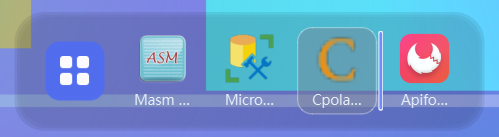
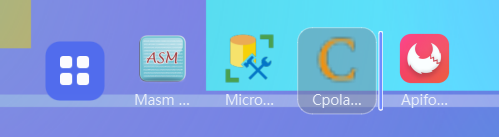
fix(dock): 菜单栏回到纯透明，去掉 paintEvent 画的影子
浅色壁纸上那层淡影子看起来就是一块半透明板子，等于把底板加回来了。
整段删除（含 DOCK_SHADOW_* 常量），DockBar 不再覆盖 paintEvent。

其余一律不动：间距 6 / Hover·Active / Toast / 拖入添加 / 排序算法。

自检 test_dock_ux 第 6 节改反向断言：没有 paintEvent 覆盖，
抓图取「图标上方」与「图标之间的缝」两个点断言 alpha == 0。全量 1127 项通过。

diff --git a/dock.py b/dock.py
@@ -72,16 +72,10 @@ MIN_MARGIN = 8
 #: 换行之后行内间距和行间间距不一样的话，第二行会看着比第一行挤。
 DOCK_GAP = 6
 
-# --------------------------------------------------------------------------
-# 菜单栏底下那层"影子"（画在 paintEvent 里，不是 QSS 也不是 QGraphicsEffect）
-# --------------------------------------------------------------------------
-#: 影子由几层同心圆角矩形叠出来，最外一层 alpha 最低。
-#: 为什么不用 `QGraphicsDropShadowEffect`：它每帧都要把整个菜单栏离屏渲染
-#: 再模糊一遍，而拖拽排序是 60fps 逐帧移动控件的 —— 那就是每帧一次全条模糊。
-#: 这里只是几个圆角矩形填充，代价可以忽略，观感够用（要的是"浮着"，不是"投影"）。
-DOCK_SHADOW_LAYERS = 3
-DOCK_SHADOW_ALPHA = 24         # 最内一层的 alpha（/255），很淡，浅壁纸上也压不脏
-DOCK_SHADOW_SPREAD = 2         # 每往外一层多扩几像素（别超过窗口留白，否则被裁）
+#: 菜单栏**不画底板、不画阴影**：底板纯透明，图标直接浮在桌面上。
+#: （Phase 4 试过在 `paintEvent` 里垫一层很淡的同心圆角矩形当"影子"，
+#:  但浅色壁纸上看就是一块半透明板子——用户明确要求回到纯透明的观感，
+#:  所以这里不再有任何绘制。要加回来请先确认壁纸是深色的。）
 
 # --------------------------------------------------------------------------
 # 排序让位的弹簧手感（积分器在 springs.py）
@@ -623,42 +617,14 @@ class DockBar(QWidget):
         self._control_buttons: "list[QWidget]" = []
 
     # ------------------------------------------------------------------
-    # 阴影（见 DOCK_SHADOW_* 的说明）
+    # 底板：纯透明，**什么都不画**
     # ------------------------------------------------------------------
-    def paintEvent(self, event) -> None:  # noqa: N802
-        """在菜单栏底下垫一层**很淡的影子**。
-
-        菜单栏是纯透明的（`#DockSurface` 必须保持 `background: transparent`，
-        见 theme 第 15 节），图标直接浮在壁纸上。浅色壁纸上浅色图标和浅色名字
-        会糊成一片，所以补一层几乎看不见的暗色晕：中心 alpha 只有 ~24/255，
-        越往外越淡 —— 看上去是"图标投在桌面上的影子"，而不是一条深色底板。
-
-        做法是几层同心圆角矩形，不是 `QGraphicsDropShadowEffect`：
-        后者每帧都要离屏渲染 + 模糊，而拖拽排序是 60fps 逐帧移动控件的。
-        """
-        super().paintEvent(event)
-        area = self.surface.geometry()
-        if area.isEmpty():
-            return
-        painter = QPainter(self)
-        painter.setRenderHint(QPainter.RenderHint.Antialiasing)
-        painter.setPen(Qt.PenStyle.NoPen)
-        # 颜色取自 Design Token（深色主题的 shadow），alpha 由 DOCK_SHADOW_ALPHA 控制
-        shadow = QColor(theme_mod.DARK["shadow"])
-        radius = float(theme_mod.RADIUS["dock"] + DOCK_SHADOW_LAYERS
-                       * DOCK_SHADOW_SPREAD)
-        # 从最外层往里画：外圈 alpha 低，内圈一层层叠上去
-        for index in range(DOCK_SHADOW_LAYERS, 0, -1):
-            spread = index * DOCK_SHADOW_SPREAD
-            alpha = int(DOCK_SHADOW_ALPHA * index / DOCK_SHADOW_LAYERS)
-            shadow.setAlpha(alpha)
-            path = QPainterPath()
-            path.addRoundedRect(
-                area.left() - spread, area.top() - spread,
-                area.width() + spread * 2, area.height() + spread * 2,
-                radius, radius)
-            painter.fillPath(path, shadow)
-        painter.end()
+    # 这里刻意没有 `paintEvent`。菜单栏是一层纯透明浮层（`#DockSurface` 是
+    # `background: transparent`，见 theme 第 15 节），图标和名字直接浮在桌面上。
+    #
+    # Phase 4 曾在这里垫过一层很淡的同心圆角矩形当"影子"，想给浅壁纸兜底；
+    # 实际观感是"图标底下多了一块半透明板子"，反而回到了要删掉的那种底板。
+    # 现在一律不画：要浮着的感觉，靠图标本身和间距就够了。
 
     def _set_drop_active(self, active: bool) -> None:
         """拖拽悬停时给菜单栏描一圈虚线（动态属性 + 重新 polish，见 theme）。"""

diff --git a/dev/test_dock_ux.py b/dev/test_dock_ux.py
@@ -237,7 +237,7 @@ def main() -> int:
     dock.show_bar()
     pump(app, 0.8)
 
-    section("6. Dock：图标间距 / 背景 / 阴影")
+    section("6. Dock：图标间距 / 背景（纯透明）")
     check("应用区图标间距放宽到 6（原来是 3）",
           dock.apps_flow._spacing == dock_mod.DOCK_GAP == 6,       # noqa: SLF001
           str(dock.apps_flow._spacing))                            # noqa: SLF001
@@ -245,22 +245,30 @@ def main() -> int:
           dock.main_row.spacing() == dock_mod.DOCK_GAP,
           str(dock.main_row.spacing()))
     sheet = dock.styleSheet()
-    check("底板仍然是纯透明（不是又加回一条深色板）",
+    check("底板是纯透明（不是又加回一条深色板）",
           "#DockSurface" in sheet and "background: transparent" in sheet)
-    check("阴影是画出来的，不是 QGraphicsEffect（拖拽时不能每帧模糊）",
+    check("没有挂 QGraphicsEffect（拖拽时不能每帧全条模糊）",
           not dock.graphicsEffect() and not dock.surface.graphicsEffect())
-    check("阴影参数克制（最内层 alpha < 40/255）",
-          dock_mod.DOCK_SHADOW_ALPHA < 40, str(dock_mod.DOCK_SHADOW_ALPHA))
+    # 回归：Phase 4 曾在这里画过一层"影子"，浅壁纸上看就是一块半透明板子。
+    # 用户要求回到纯透明，所以钉死"菜单栏自己什么都不画"。
+    check("菜单栏自己不画任何东西（没有覆盖 paintEvent）",
+          "paintEvent" not in vars(dock_mod.DockBar))
     pix = dock.grab()
     pix.setDevicePixelRatio(1.0)
     image = pix.toImage()
     surface = dock.surface.geometry()
     probe = image.pixelColor(surface.x() + surface.width() // 2,
                              surface.y() + 3)
-    check("实测：图标上方那一带确实有一层很淡的暗色（阴影生效）",
-          probe.alpha() > 0, f"alpha={probe.alpha()}")
-    check("实测：阴影很淡，不至于变成一条底板（alpha <= 120）",
-          probe.alpha() <= 120, f"alpha={probe.alpha()}")
+    check("实测：图标上方那一带完全透明（直接透出壁纸）",
+          probe.alpha() == 0, f"alpha={probe.alpha()}")
+    # 图标之间那条缝也必须是透的——有底板的话这里会先被填上色
+    first_btn, second_btn = dock._app_buttons[0], dock._app_buttons[1]
+    left = first_btn.mapTo(dock, QPoint(first_btn.width(), 0)).x()
+    right = second_btn.mapTo(dock, QPoint(0, 0)).x()
+    middle_y = first_btn.mapTo(dock, QPoint(0, first_btn.height() // 2)).y()
+    gap = image.pixelColor((left + right) // 2, middle_y)
+    check("实测：两个图标之间的缝也是全透明的",
+          gap.alpha() == 0, f"alpha={gap.alpha()}")
 
     section("7. Dock：Hover / Active 状态")
     check("样式表里有 DockIcon 的 hover 规则", "#DockIcon:hover" in sheet)
